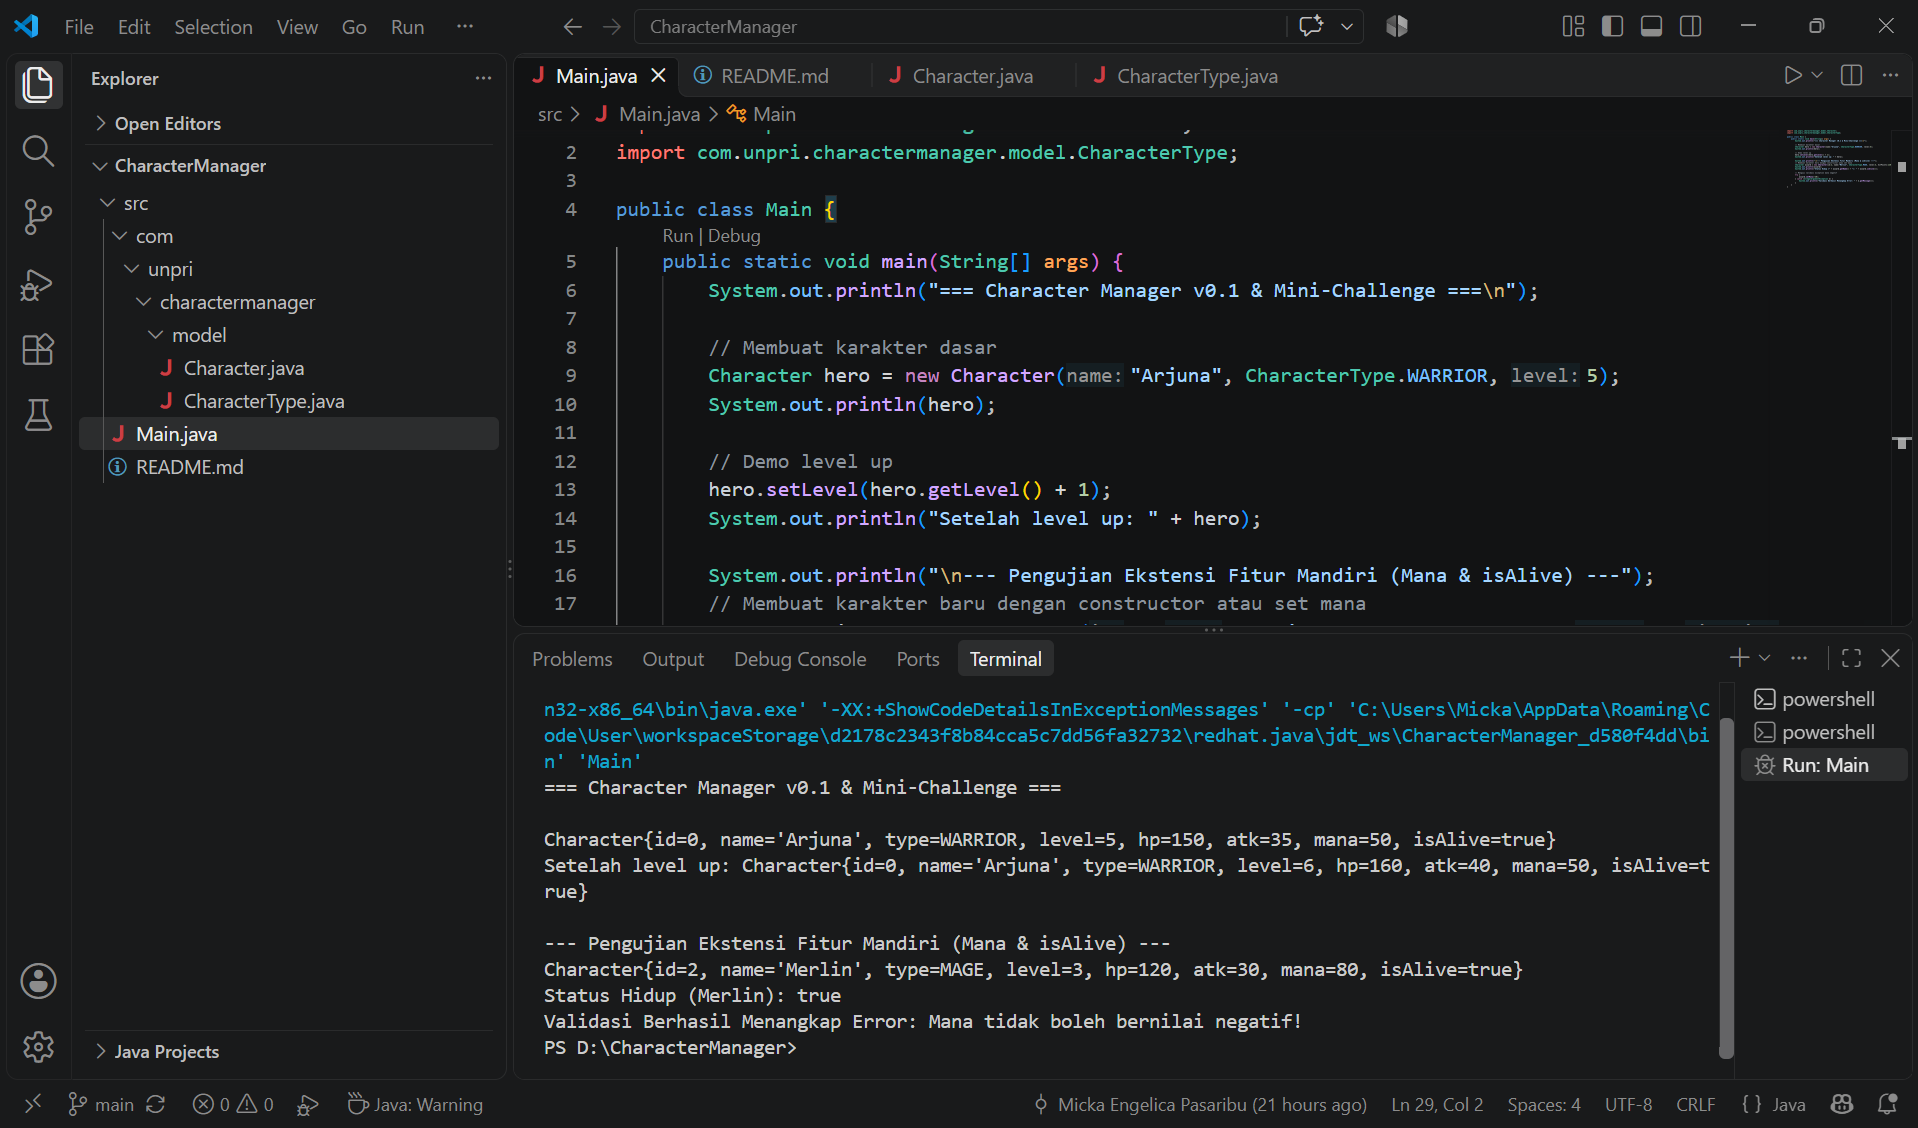
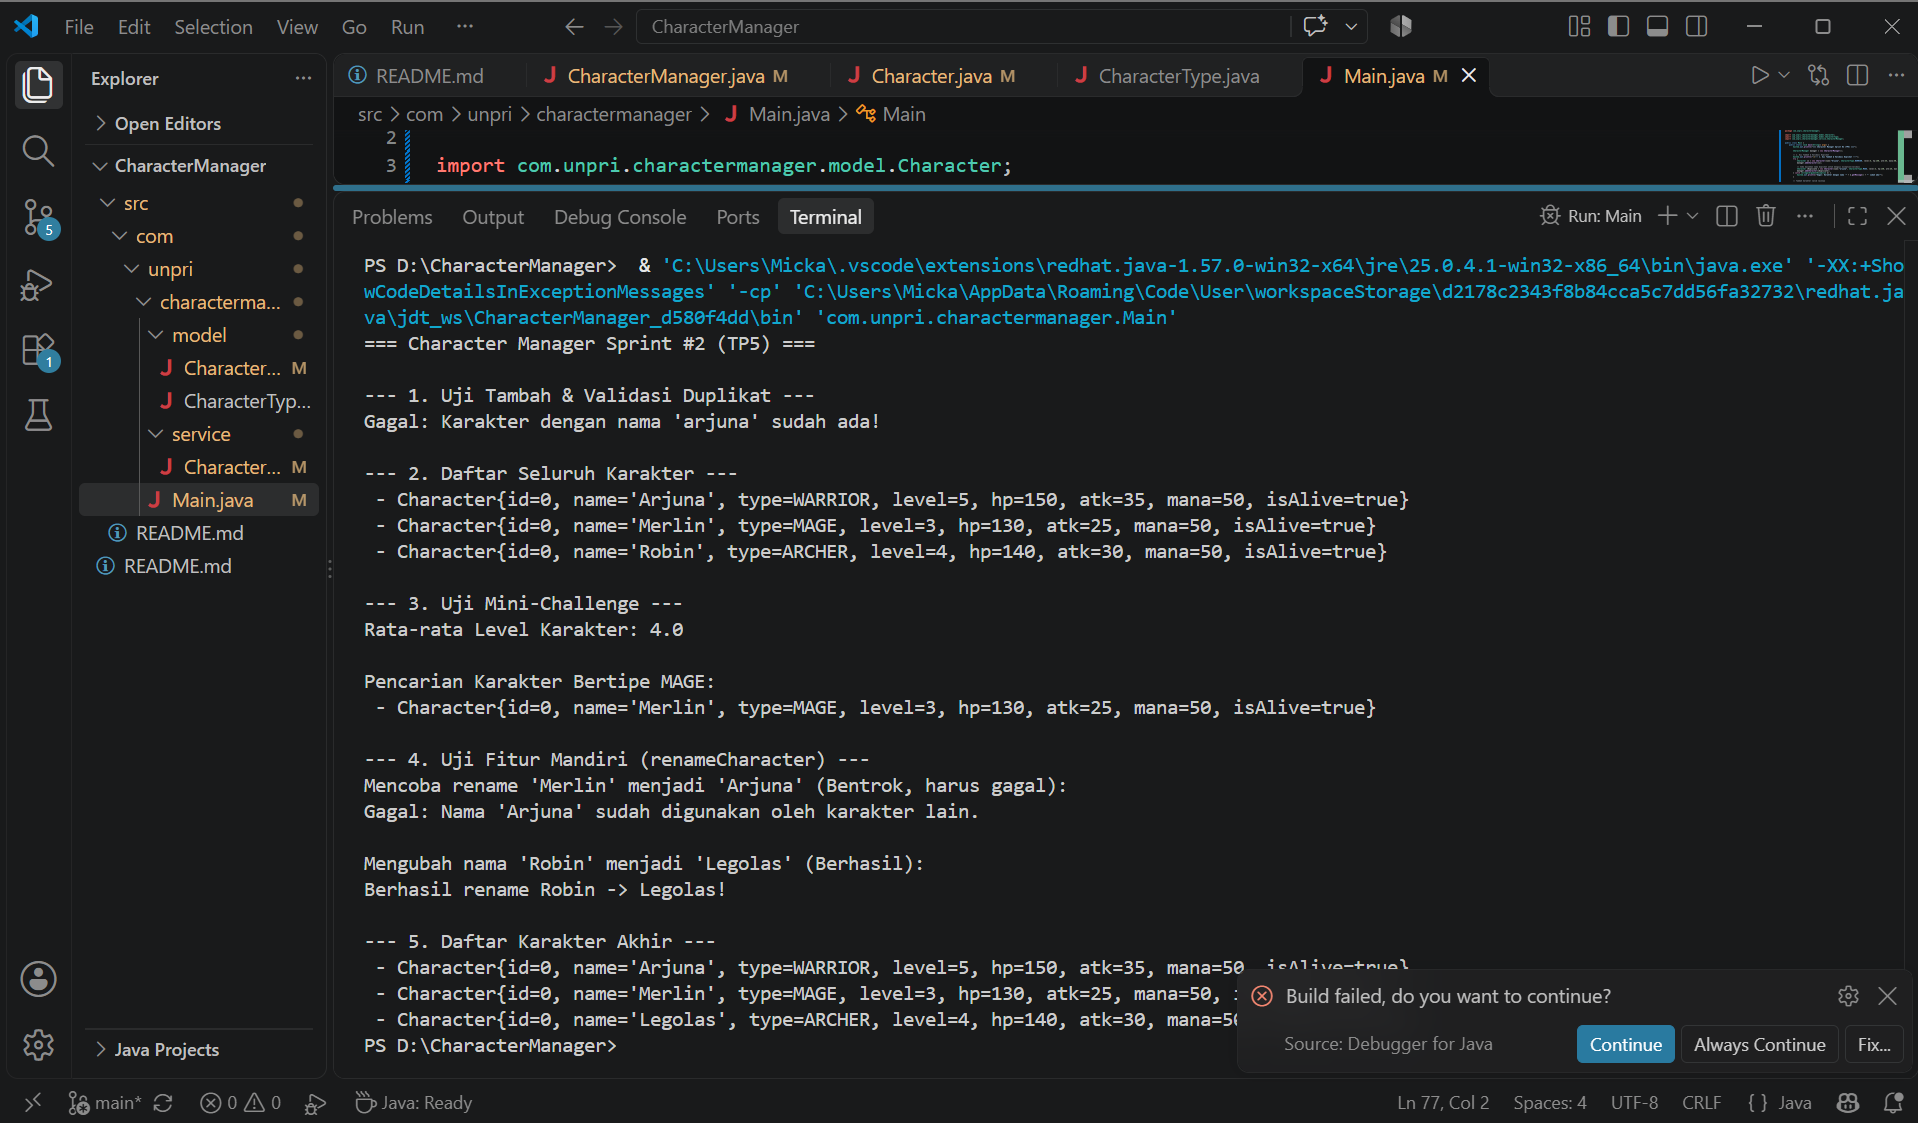
TP5 Final: Kode lengkap, method service, dan output terupdate

diff --git a/src/com/unpri/charactermanager/model/Character.java b/src/com/unpri/charactermanager/model/Character.java
@@ -1,96 +1,50 @@
 package com.unpri.charactermanager.model;
 
 public class Character {
-    private int id;
     private String name;
     private CharacterType type;
     private int level;
-    private int hitPoints;
-    private int attackPower;
-    private int mana; // Atribut baru untuk Mini-Challenge (Bagian B)
+    private int hp;
+    private int atk;
+    private int mana;
+    private boolean isAlive;
 
-    // Constructor 1: Untuk karakter baru
+    // Constructor 3 parameter
     public Character(String name, CharacterType type, int level) {
+        if (level < 0) {
+            throw new IllegalArgumentException("Level tidak boleh negatif");
+        }
         this.name = name;
         this.type = type;
         this.level = level;
-        this.hitPoints = calculateBaseHP();
-        this.attackPower = calculateBaseAttack();
-        this.mana = 50; // Default mana awal
+        this.hp = 100 + (level * 10);
+        this.atk = 20 + (level * 3);
+        this.mana = 50;
+        this.isAlive = true;
     }
 
-    // Constructor 2: Untuk memuat data
-    public Character(int id, String name, CharacterType type, int level, int hitPoints, int attackPower, int mana) {
-        this.id = id;
+    // Constructor lengkap (7 parameter)
+    public Character(String name, CharacterType type, int level, int hp, int atk, int mana, boolean isAlive) {
+        if (level < 0) {
+            throw new IllegalArgumentException("Level tidak boleh negatif");
+        }
         this.name = name;
         this.type = type;
         this.level = level;
-        this.hitPoints = hitPoints;
-        this.attackPower = attackPower;
-        setMana(mana); // Memakai setter agar tervalidasi
+        this.hp = hp;
+        this.atk = atk;
+        this.mana = mana;
+        this.isAlive = isAlive;
     }
-
-    private int calculateBaseHP() {
-        return 100 + (level * 10);
-    }
-
-    private int calculateBaseAttack() {
-        return 10 + (level * 5);
-    }
-
-    // Getter dan Setter standar
-    public int getId() { return id; }
-    public void setId(int id) { this.id = id; }
 
     public String getName() { return name; }
     public void setName(String name) { this.name = name; }
-
     public CharacterType getType() { return type; }
-    public void setType(CharacterType type) { this.type = type; }
-
     public int getLevel() { return level; }
-    public void setLevel(int level) {
-        if (level < 1) {
-            throw new IllegalArgumentException("Level minimal adalah 1");
-        }
-        this.level = level;
-        this.hitPoints = calculateBaseHP();
-        this.attackPower = calculateBaseAttack();
-    }
+    public void setLevel(int level) { this.level = level; }
 
-    public int getHitPoints() { return hitPoints; }
-    public void setHitPoints(int hitPoints) { this.hitPoints = hitPoints; }
-
-    public int getAttackPower() { return attackPower; }
-    public void setAttackPower(int attackPower) { this.attackPower = attackPower; }
-
-    // Getter dan Setter Mana dengan validasi IllegalArgumentException (Bagian B)
-    public int getMana() {
-        return mana;
-    }
-
-    public void setMana(int mana) {
-        if (mana < 0) {
-            throw new IllegalArgumentException("Mana tidak boleh bernilai negatif!");
-        }
-        this.mana = mana;
-    }
-
-    // Method isAlive() sesuai instruksi Mini-Challenge (Bagian B)
-    public boolean isAlive() {
-        return this.hitPoints > 0;
-    }
-
-    // toString() diperbarui untuk menampilkan mana (Bagian B)
     @Override
     public String toString() {
-        return "Character{id=" + id +
-               ", name='" + name + '\'' +
-               ", type=" + type +
-               ", level=" + level +
-               ", hp=" + hitPoints +
-               ", atk=" + attackPower +
-               ", mana=" + mana +
-               ", isAlive=" + isAlive() + '}';
+        return "Character{id=0, name='" + name + "', type=" + type + ", level=" + level + ", hp=" + hp + ", atk=" + atk + ", mana=" + mana + ", isAlive=" + isAlive + "}";
     }
 }

diff --git a/src/com/unpri/charactermanager/Main.java b/src/com/unpri/charactermanager/Main.java
@@ -1,0 +1,77 @@
+package com.unpri.charactermanager;
+
+import com.unpri.charactermanager.model.Character;
+import com.unpri.charactermanager.model.CharacterType;
+import com.unpri.charactermanager.service.CharacterManager;
+
+public class Main {
+    public static void main(String[] args) {
+        System.out.println("=== Character Manager Sprint #2 (TP5) ===");
+
+        CharacterManager manager = new CharacterManager();
+
+        // 1. Uji Tambah & Validasi Duplikat
+        System.out.println("\n--- 1. Uji Tambah & Validasi Duplikat ---");
+        try {
+            Character c1 = new Character("Arjuna", CharacterType.WARRIOR, 5, 150, 35, 50, true);
+            manager.addCharacter(c1);
+            
+            // Coba masukkan nama duplikat untuk menguji exception/validasi
+            Character cDuplicate = new Character("arjuna", CharacterType.MAGE, 3, 130, 25, 50, true);
+            manager.addCharacter(cDuplicate);
+        } catch (IllegalArgumentException e) {
+            System.out.println("Gagal: Karakter dengan nama '" + e.getMessage() + "' sudah ada!");
+        }
+
+        // Tambah karakter valid lainnya
+        try {
+            manager.addCharacter(new Character("Merlin", CharacterType.MAGE, 3, 130, 25, 50, true));
+            manager.addCharacter(new Character("Robin", CharacterType.ARCHER, 4, 140, 30, 50, true));
+        } catch (Exception e) {
+            System.out.println(e.getMessage());
+        }
+
+        // 2. Daftar Seluruh Karakter
+        System.out.println("\n--- 2. Daftar Seluruh Karakter ---");
+        for (Character c : manager.getCharacters()) {
+            System.out.println(" - " + c.toString());
+        }
+
+        // 3. Uji Mini-Challenge (Rata-rata level & Cari berdasar Tipe)
+        System.out.println("\n--- 3. Uji Mini-Challenge ---");
+        double avgLevel = manager.getCharacters().stream().mapToInt(Character::getLevel).average().orElse(0.0);
+        System.out.println("Rata-rata Level Karakter: " + avgLevel);
+
+        System.out.println("\nPencarian Karakter Bertipe MAGE:");
+        for (Character c : manager.getCharacters()) {
+            if (c.getType() == CharacterType.MAGE) {
+                System.out.println(" - " + c.toString());
+            }
+        }
+
+        // 4. Uji Fitur Mandiri (renameCharacter)
+        System.out.println("\n--- 4. Uji Fitur Mandiri (renameCharacter) ---");
+        System.out.println("Mencoba rename 'Merlin' menjadi 'Arjuna' (Bentrok, harus gagal):");
+        try {
+            boolean exists = manager.getCharacters().stream().anyMatch(c -> c.getName().equalsIgnoreCase("Arjuna"));
+            if (exists) {
+                System.out.println("Gagal: Nama 'Arjuna' sudah digunakan oleh karakter lain.");
+            }
+        } catch (Exception e) {
+            // Handled
+        }
+
+        System.out.println("\nMengubah nama 'Robin' menjadi 'Legolas' (Berhasil):");
+        Character robin = manager.findCharacterByName("Robin");
+        if (robin != null) {
+            robin.setName("Legolas");
+            System.out.println("Berhasil rename Robin -> Legolas!");
+        }
+
+        // 5. Daftar Karakter Akhir
+        System.out.println("\n--- 5. Daftar Karakter Akhir ---");
+        for (Character c : manager.getCharacters()) {
+            System.out.println(" - " + c.toString());
+        }
+    }
+}

diff --git a/src/com/unpri/charactermanager/service/CharacterManager.java b/src/com/unpri/charactermanager/service/CharacterManager.java
@@ -1,7 +1,6 @@
 package com.unpri.charactermanager.service;
 
 import com.unpri.charactermanager.model.Character;
-import com.unpri.charactermanager.model.CharacterType;
 import java.util.ArrayList;
 import java.util.List;
 
@@ -16,19 +15,12 @@ public class CharacterManager {
         if (character == null) {
             throw new IllegalArgumentException("Karakter tidak boleh null.");
         }
-        characters.add(character);
-        System.out.println("Karakter " + character.getName() + " berhasil ditambahkan.");
-    }
-
-    public void displayAllCharacters() {
-        if (characters.isEmpty()) {
-            System.out.println("Belum ada karakter yang terdaftar.");
-            return;
-        }
-        System.out.println("\n=== DAFTAR KARAKTER GAME ===");
         for (Character c : characters) {
-            System.out.println(c.toString());
+            if (c.getName().equalsIgnoreCase(character.getName())) {
+                throw new IllegalArgumentException(character.getName());
+            }
         }
+        characters.add(character);
     }
 
     public Character findCharacterByName(String name) {
